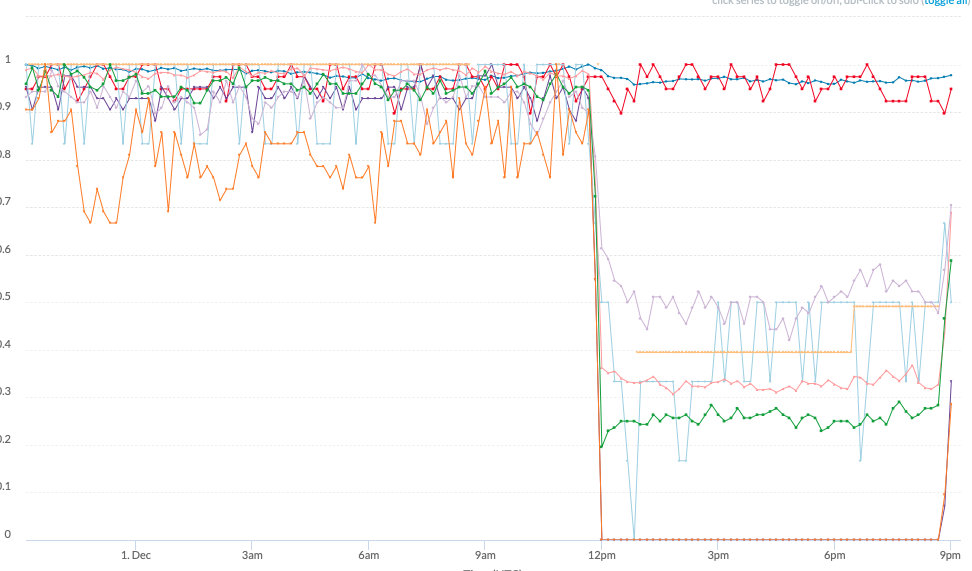
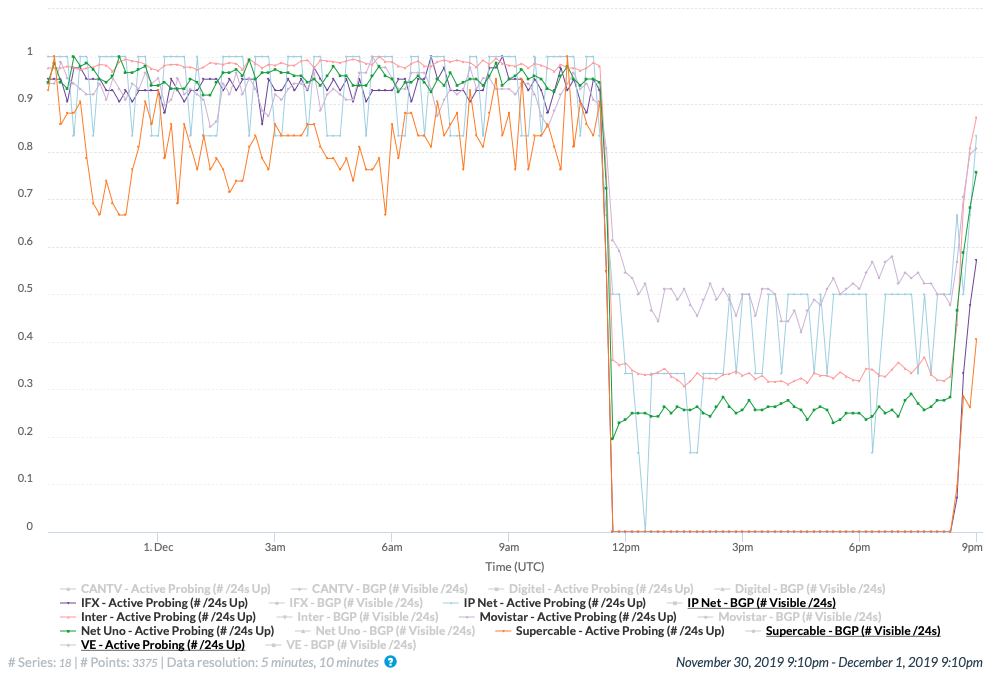
update gra[h 2019-12-01

diff --git a/_noticias/2019-11-30-aviso.md b/_noticias/2019-11-30-aviso.md
@@ -1,7 +1,7 @@
 ---
 layout: post
 title:  "Reparación de cable submarino afecta múltiples proveedores de internet"
-small:  "Reparación de cable submarino afecta servicio de internet"
+small:  "Qué pasó con el internet en Venezuela el primero de diciembre"
 excerpt: ""
 permalink: /noticias/aviso-2019-12-01/
 date:   2019-11-30 19:10:00 -0400
@@ -29,7 +29,7 @@ Se vieron afectados importantes proveedores, para las 12pm:
 
 CANTV y Digitel no tuvieron mayor inconveniente.
 
-![Conectividad distintos ISP](/res/post_img/2019-12-01/1-conectivity.png)
+![Conectividad distintos ISP](/res/post_img/2019-12-01/1-conectivity-b.png)
 (Conectividad distintos ISP, hora en GMT. Fuente: CAIDA-IODA)
 
 
